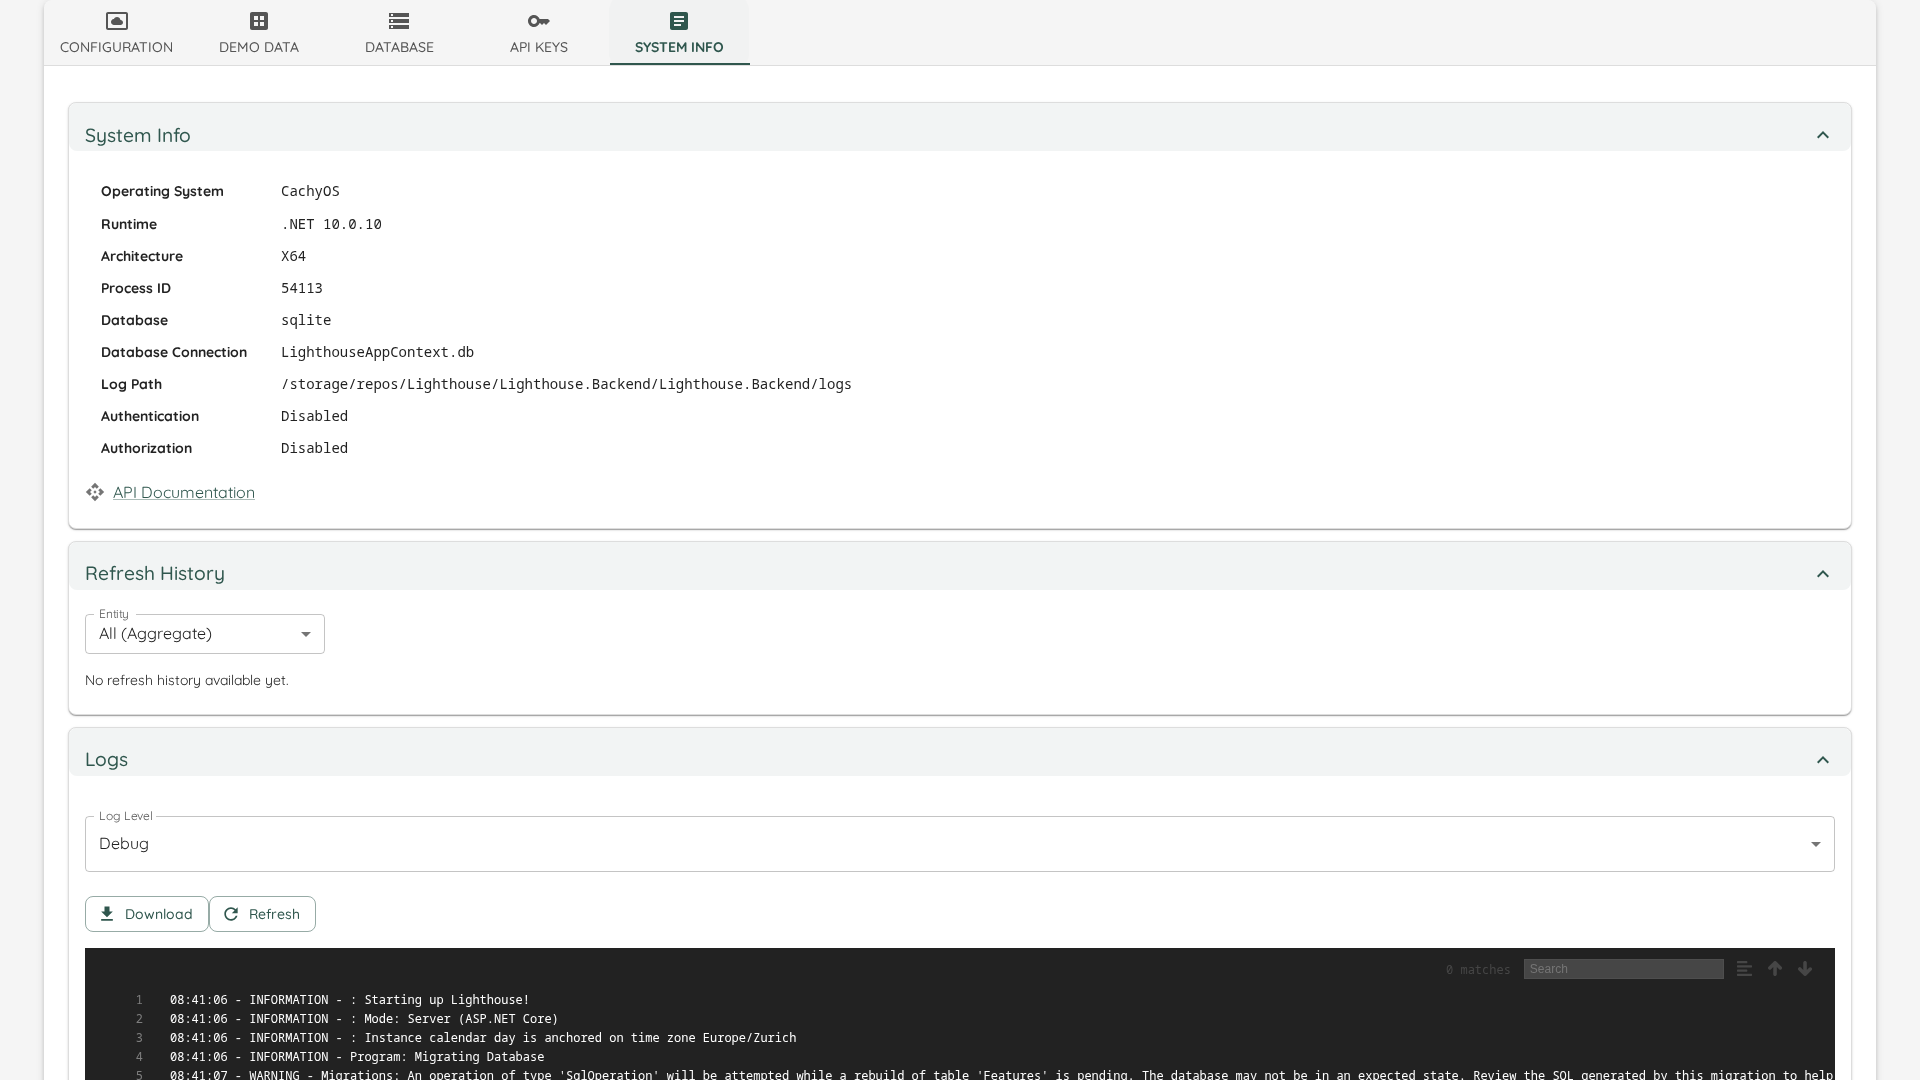
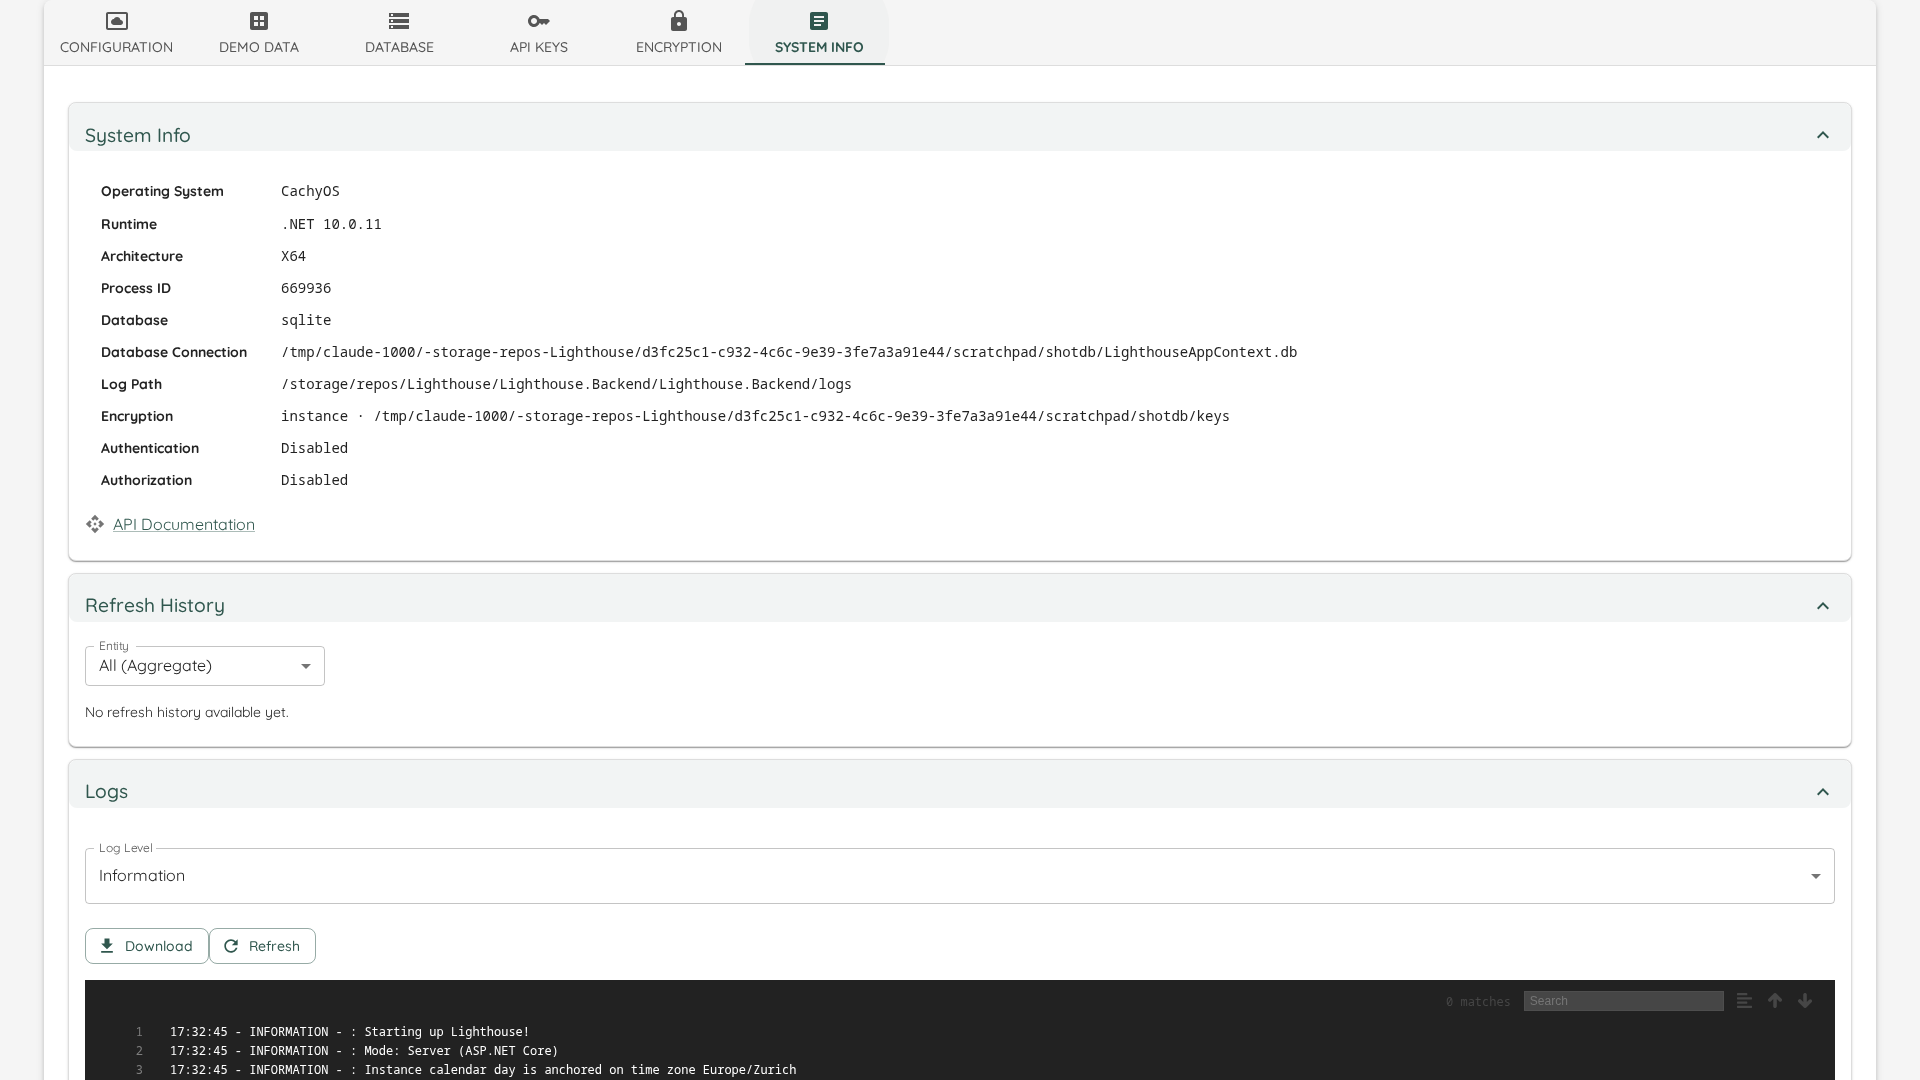
docs(encryption): show the screen the page describes
Slice 06 of Epic #5775, at the maintainer's request.

The encryption settings page has described that screen in prose since it
shipped and has never shown it. The system information image predates the
Encryption row the same slice added, so the picture and the page disagreed about
what the tab contains.

Both are taken through a Page Object, in the screenshot spec that already owns
every other settings image, and both were run locally against a fresh instance
before this commit. The old images were deleted first: a regenerated screenshot
whose diff is under half a percent is silently kept, which is how a stale
picture survives a re-run.

The substrate is a clean SQLite instance, so custody reads "generated for this
instance" - the state most readers are in, and the one where the screen offers
every action. The system information page also documents the Encryption row
now: it is the fastest way to tell whether an instance still needs a key of its
own.

No picture of the check-secrets report. On an instance holding no credentials
the report has nothing to say, and a screenshot of an empty state teaches less
than the table of four states already on the page. The prose stands on its own
until there is a substrate with stored credentials to photograph.

Claude-Session: https://claude.ai/code/session_01FF8mbKBvfrKtbTN3agmtAT

diff --git a/Lighthouse.EndToEndTests/tests/models/settings/SettingsPage.ts b/Lighthouse.EndToEndTests/tests/models/settings/SettingsPage.ts
@@ -3,6 +3,7 @@ import { RbacSettingsPage } from "../auth/rbac/RbacSettingsPage";
 import { DemoDataPage } from "../teams/DemoDataPage";
 import { ApiKeysSettingsPage } from "./ApiKeys/ApiKeysSettingsPage";
 import { DatabaseManagementPage } from "./DatabaseManagement/DatabaseManagementPage";
+import { EncryptionSettingsPage } from "./Encryption/EncryptionSettingsPage";
 import { SystemInfoPage } from "./SystemInfo/SystemInfoPage";
 import { SystemConfigurationPage } from "./SystemSettings/SystemConfigurationPage";
 
@@ -35,6 +36,15 @@ export class SettingsPage {
 		await this.page.getByTestId("database-tab").click();
 
 		return new DatabaseManagementPage(this.page);
+	}
+
+	async goToEncryption(): Promise<EncryptionSettingsPage> {
+		await this.page.getByTestId("encryption-tab").click();
+
+		const encryptionPage = new EncryptionSettingsPage(this.page);
+		await encryptionPage.keyRing.waitFor();
+
+		return encryptionPage;
 	}
 
 	async goToApiKeys(): Promise<ApiKeysSettingsPage> {

diff --git a/Lighthouse.EndToEndTests/tests/specs/screenshots/Screenshots.spec.ts b/Lighthouse.EndToEndTests/tests/specs/screenshots/Screenshots.spec.ts
@@ -124,6 +124,15 @@ test("Take @screenshot of the system info settings page", async ({
 	await takeElementScreenshot(systemInfoTable, "settings/systeminfo_auth.png");
 });
 
+test("Take @screenshot of the encryption settings page", async ({
+	overviewPage,
+}) => {
+	const settingsPage = await overviewPage.lightHousePage.goToSettings();
+	const encryption = await settingsPage.goToEncryption();
+
+	await takePageScreenshot(encryption.page, "settings/encryption.png");
+});
+
 test("Take @screenshot of the database management settings page", async ({
 	overviewPage,
 }) => {

diff --git a/Lighthouse.EndToEndTests/tests/models/settings/Encryption/EncryptionSettingsPage.ts b/Lighthouse.EndToEndTests/tests/models/settings/Encryption/EncryptionSettingsPage.ts
@@ -1,0 +1,17 @@
+import type { Locator, Page } from "@playwright/test";
+
+export class EncryptionSettingsPage {
+	page: Page;
+
+	constructor(page: Page) {
+		this.page = page;
+	}
+
+	get keyRing(): Locator {
+		return this.page.getByTestId("encryption-key-ring");
+	}
+
+	get custody(): Locator {
+		return this.page.getByTestId("encryption-custody");
+	}
+}

diff --git a/docs/settings/systeminfo.md b/docs/settings/systeminfo.md
@@ -17,6 +17,8 @@ You can click on any of the values, and it will copy them.
 
 You also have a link to the API documentation, which will bring you to a swagger page detailing all the API endpoints of Lighthouse.
 
+One of the rows is **Encryption**, and it answers who owns the key your stored credentials are encrypted with — this instance, or you. It is the fastest way to tell whether an instance still needs a key of its own; what to do about the answer is on the [Secret Encryption Key](encryption.html) page. Like every value here, the row names the key, never the key material.
+
 ## Refresh History
 In order to observe the refresh times of your teams and portfolios, Lighthouse is tracking the last 30 runs and visualizing them:
 

diff --git a/docs/settings/encryption.md b/docs/settings/encryption.md
@@ -11,6 +11,8 @@ To reach Jira, Azure DevOps, ServiceNow and the rest, Lighthouse has to store th
 
 Everything here is System Administrator only.
 
+![Secret Encryption Key](../assets/settings/encryption.png)
+
 If you are looking for how to *set* a key rather than what to do with the one you have, that is in [Configuration](../Installation/configuration.html#encryption-key).
 
 ## What the screen tells you
